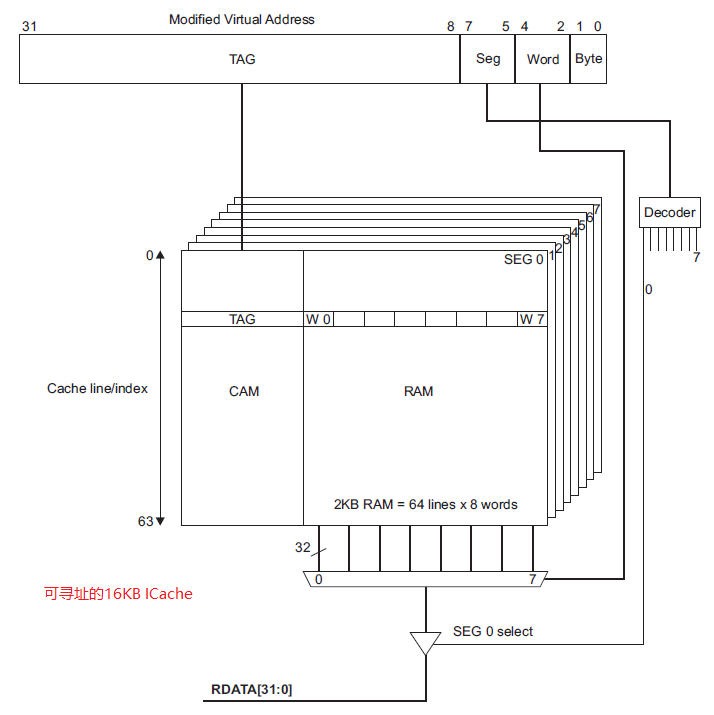
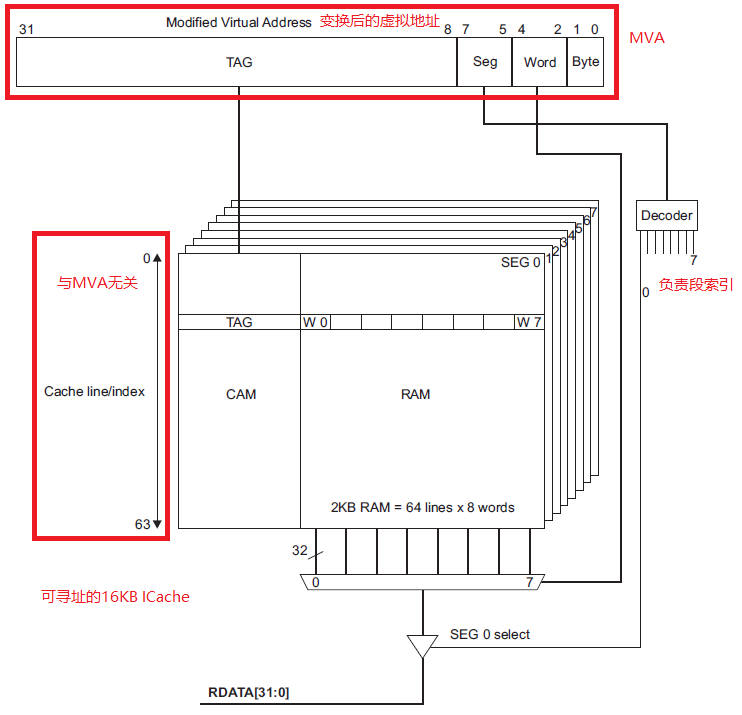
分析u-boot启动流程-第4天

diff --git a/doc/linux/arm-architecture/arm.com.sites/ARM920T_TRM1_S_CN.md b/doc/linux/arm-architecture/arm.com.sites/ARM920T_TRM1_S_CN.md
@@ -1,3 +1,108 @@
+<h1 id="0">0 目录</h1>
+* [2 编程者模型](#2)
+    - [2.1 关于编程者模型](#2.1)
+        + [2.1.1 访问权限和域](#2.1.1)
+    - [2.2 关于ARM9TDMI编程者模型](#2.2)
+    - [2.3 CP15寄存器映射](#2.3)
+* [3 内存管理单元-MMU](#3)
+    - [3.1 关于MMU](#3.1)
+        + [3.1.1 访问权限和域](#3.1.1)
+    - [3.2 MMU可编程寄存器](#3.2)
+    - [3.3 地址变换](#3.3)
+* [4 Cache、写缓冲区、和PA TAG RAM](#4)
+    - [4.2 ICache](#4.2)
+        + [4.2.1 ICache组织结构](#4.2.1)
+        + [4.2.2 使能和禁止ICache](#4.2.2)
+    - [4.3 DCache & 写缓存](#4.3)
+
+
+---
+
+<h1 id="2">2 编程者模型</h1>
+
+本章描述了ARM920T的寄存器，提供了对其编程时所需要的信息。
+
+<h2 id="2.1">2.1 关于编程者模型</h2>
+
+本章描述了ARM920T的寄存器，提供了对其编程时所需要的信息。
+
+<h2 id="2.2">2.2 关于编程者模型</h2>
+
+本章描述了ARM920T的寄存器，提供了对其编程时所需要的信息。
+
+<h2 id="2.3">2.3 CP15寄存器映射</h2>
+
+CP15定义了16个寄存器。其内容见表2-2。
+
+|register   |Read           |WRITE|
+|--------   | ------------- |------------|
+| 0         | ID code       | 不可预料 |
+| 0         | Cache类型      | 不可预料 |
+| 1         | Control       | Control |
+| 2         | 转换表基地址   | 转换表基地址 |
+| 3         | 域访问控制     | 域访问控制 |
+| 4         | 不可预料       | 不可预料 |
+| 省略... |
+
+> 寄存器位置0处，可以当做2个寄存器，具体的行为依赖于opcode_2的值。
+
+<h3 id="2.3.1">2.3.1 访问权限和域</h3>
+
+
+
+<div style="text-align: right"><a href="#0">回到顶部</a><a name="_label0"></a></div>
+
+<h1 id="3">3 内存管理单元-MMU</h1>
+
+<h2 id="3.1">3.1 关于MMU</h2>
+
+ARM920T处理器提供了一个增强型的ARMv4 MMU，用来对指令和数据进行转换以及访问权限的检查。MMU由存储在主内存中的一组2级页表控制，由CP15寄存器1中的M位进行使能，提供了一种简单的地址转换和保护机制。MMU中的指令和数据转换表可以独立地进行加锁和刷新操作。
+
+主要功能：
+
+1. 标准ARMv4 MMU映射大小，域和访问保护机制
+2. 映射大小：段（1MB）、大页面（64KB）、小页面（4KB）和微小页面（1KB）
+3. 提供对段访问的权限
+4. 大页面和小页面的访问权限可以分别为其子页面进行指定（这些子页面就是每个page的1/4）
+5. 16 domains implemented in hardware
+6. 64 entry instruction TLB and 64 entry data TLB
+7. hardware page table walks
+8. round-robin replacement algorithm (also called cyclic)
+9. invalidate whole TLB, using CP15 register 8
+10. invalidate TLB entry, selected by MVA, using CP15 register 8
+11. independent lockdown of instruction TLB and data TLB, using CP15 register 10.
+
+<h3 id="3.1.1">3.1.1 访问权限和域</h3>
+
+对于大页面和小页面，可以为每一个子页面定义访问权限（对于小页面来说就是1KB，对于大页面来说就是16KB）。段和微小页面具有单独一组访问权限。
+
+所有的内存区域都有一个关联的域。域是内存访问的主要控制机制。它定义了访问能够进行的必要条件。域决定了是否：
+
+1. 访问权限用于限定访问
+2. 访问可以无条件的进行
+3. 访问无条件中止
+
+在后2种情况下，访问权限的属性被忽略。
+
+有16种域。使用域访问控制寄存器进行配置。
+
+<h3 id="3.1.2">3.1.2 转换项</h3>
+
+每个TLB缓存着64个转换项。在CPU内存访问期间，TLB提供保护信息给访问控制逻辑单元。
+
+如果TLB包含一个MVA中转换后的项，则由访问控制逻辑单元决定是否允许访问：
+
+1. 如果允许访问，且需要片外访问，则MMU输出对应于MVA的正确的物理地址
+2. 如果允许访问，且不要求片外访问，则Cache响应此次访问
+3. 如果不允许访问，则MMU通知CPU放弃此次访问
+
+如果TLB未命中（也就是不包含VA中的项），则转换表
+
+<h2 id="3.2">3.2 MMU可编程寄存器</h2>
+
+<h2 id="3.3">3.3 地址转换</h2>
+
+<h1 id="4">4 Cache、写缓冲区、和PA TAG RAM</h1>
 
 <h2 id="4.2">4.2 ICache</h2>
 
@@ -8,10 +113,60 @@ ICache中的指令可以被锁住，以避免被linefill覆盖掉。锁指令这
 所有指令的访问都应由MMU进行权限和转换的检查。由MMU放弃的指令读取不会导致linefill或指令读取出现在AMBA ASB总线接口上。
 
 ---
-> 为了明确，在下面的文章中，I 位（CP15寄存器1的bit 12）被称为Icr 位；来自与被访问的地址相关的MMU转换表描述符相关的C位称为Ctt位。
+> 为了明确，在下面的文章中，I位（CP15寄存器1的位12）被称为ICR位；来自与被访问的地址相关的MMU转换表描述符相关的C位称为CTT位。
 
 ---
 
 <h3 id="4.2.1">4.2.1 ICache组织结构</h3>
 
+参考下面的图，了解ICache的基本结构：
+
+![16KBICache](https://raw.githubusercontent.com/tupelo-shen/my_test/master/doc/linux/arm-architecture/arm.com.sites/images/%E5%8F%AF%E5%AF%BB%E5%9D%8016KBICache.png)
+
+ICache被分为8个段，每个段包含64个line，每个line包含8个字（word）。每个段中的line编号为0-63，通过编号对其进行索引。该索引独立于MVA。段编号通过MVA中的位 *\[7:5\]*进行选择。
+
+MVA中的 *\[4:2\]*指定了line中要访问的word。对于半字操作，MVA的位\[1\]指定访问哪个半字，高16位还是低16位。对于字节操作，MVA中的位\[1:0\]决定。
+
+每个cache line中的位\[31:8\]称为 *TAG*。当某个line被linefill操作时， *TAG*和8个字节的数据一起被存储在cache中。
+
+对cache的遍历，就是比较MVA的位\[31:8\]和存储在cache line中的 *TAG*，如果匹配就命中，否则丢弃。正是因此，cache才会被称为 *虚拟地址寻址*。
+
+<h3 id="4.2.2">4.2.2 使能和禁止ICache</h3>
+
+重置时，ICache条目全部失效，ICache被禁用。对ICR位写1，使能；对ICR位写0，禁止。
+
+当ICache被禁止时，cache的内容将被忽略，并且所有指令的获取将以独立的非顺序访问的形式出现在AMBA ASB总线接口上。ICache通常是在启用MMU的情况下使用。在这种情况下，相关MMU转换表描述符中的CTT位指示内存中的哪块区域是可缓存的。
+
+如果cache被禁止，所有cache内容被忽略，但是不会发生变化。也就是说，cache被重新使能时，内容还是禁止之前的内容。所以，当cache中的内容和内存中的内容不一致的时候，必须在使能之前冲洗之前的数据。
+
+**这就是为什么在裸机程序，比如说uboot中需要禁止并冲洗cache的原因**
+
+可以使用MCR指令，同时往CP15 寄存器1的M位和ICR位写1，使能MMU和ICache。
+
+<h3 id="4.2.3">4.2.3 ICache操作</h3>
+
+如果ICache被禁止，每条指令的读取都将以独立的非顺序内存访问的形式出现在AMBA ASB接口上，这样操作，导致较低的总线和内存性能。进而，导致指令读取和CPU的处理速度无法匹配，不能将性能发挥到最优。因此，在复位后必须尽可能的使能ICache。
+
+如果ICache被使能，无论相关的MMU转换表描述符中的CTT位设置与否，对ICache的遍历都会进行：
+
+* 如果请求的指令在cache中发现，就称为cache命中。如果指令在cache中，且CTT=1，表明该内存地址是一个可缓存的区域。然后就将cache中的指令返回给ARM9TDMI CPU核。
+
+* 如果请求的指令在cache中没有，则称为 *cache未命中*。如果发生cache未命中且CTT=1，然后执行一个8个字的linefill，可能替换另一个entry。要替换的entry是从没锁定的条目中选择的，使用的算法是随机或者round-robin替代策略。如果CTT=0，表明是一个非缓存区域，就会以单独的非顺序内存访问形式出现在AMBA ASB接口上。
+
+---
+
+> 如果CTT等于0，表明是一个不可cache的内存区域，然后cache遍历就会导致 *cache未命中*。 cache命中的唯一方法就是，软件改变了MMU转换表描述符中的CTT位，并且没有使Cache中的数据失效。这是一个可编程的错误。而且
+
+---
+
+<div style="text-align: right"><a href="#0">回到顶部</a><a name="_label0"></a></div>
+
+<h2 id="4.3">4.3 DCache&写缓冲区</h2>
+
+<h3 id="4.3.2">4.3.2 DCache&写缓冲区的操作</h3>
+
+
+<h3 id="4.3.3">4.3.3 DCache组织结构</h3>
+
+DCache的结构模型和ICache相同。可以参考[ICache组织结构](#4.2.1)。
 

diff --git a/doc/linux/qemu/启动流程分析/uboot启动流程分析.md b/doc/linux/qemu/启动流程分析/uboot启动流程分析.md
@@ -1,3 +1,5 @@
+<h1 id="0">0 目录</h1>
+
 * [1 简介](#1)
     - [1.1 uboot是什么？](#1.1)
     - [1.2 存储器](#1.2)
@@ -379,6 +381,10 @@ Cache是处理器内部的一个高速缓存单元，为了应对处理器和外
 
 <h1 id="4">4 uboot启动流程第二阶段</h1>
 
+
+---
+
+<div style="text-align: right"><a href="#0">回到顶部</a><a name="_label0"></a></div>
 
 ---
 
